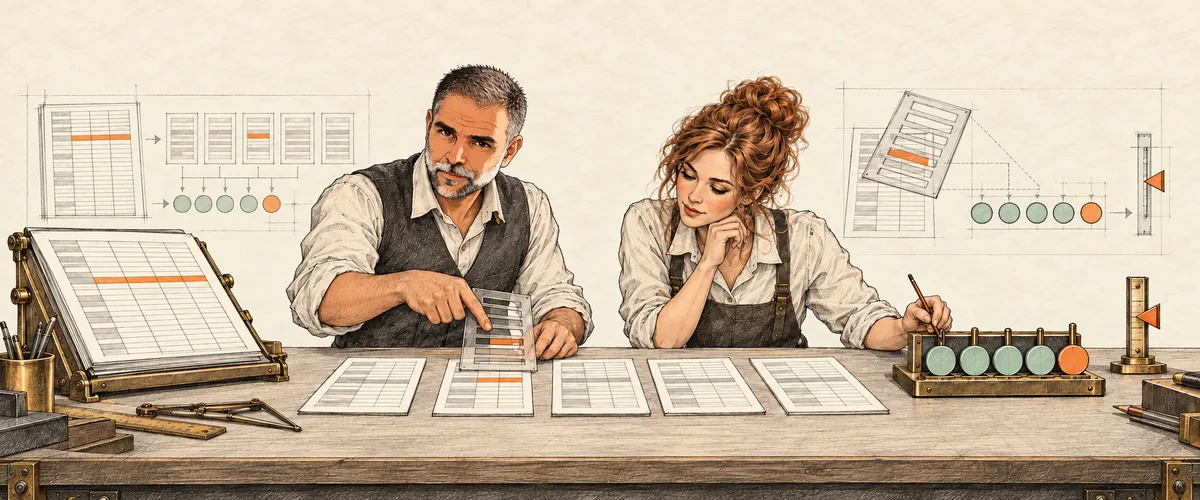
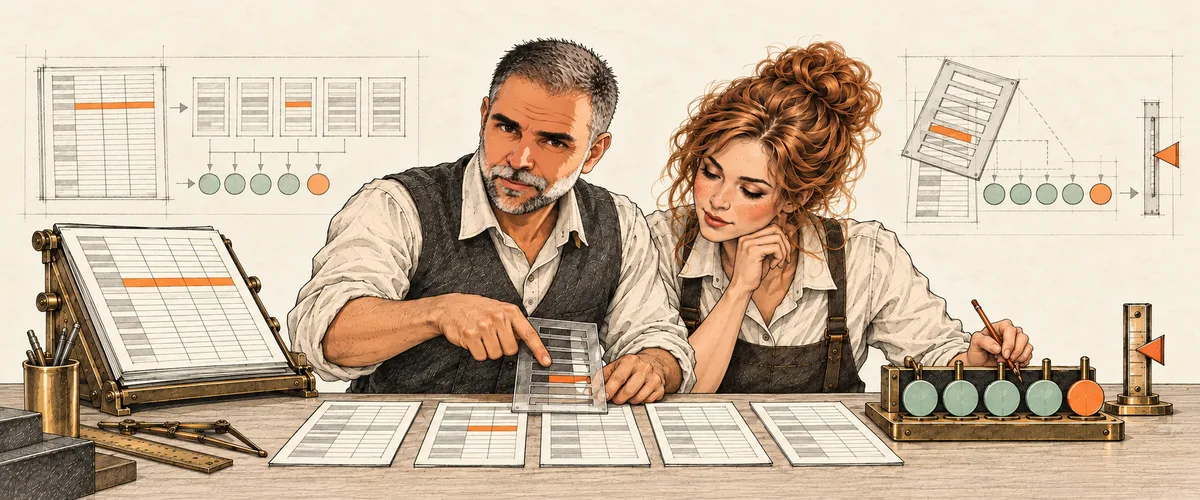
Bring three article card compositions closer to their subjects

diff --git a/src/assets/heroes/controlled-workflows-card.prompt.md b/src/assets/heroes/controlled-workflows-card.prompt.md
@@ -1,28 +1,63 @@
-# controlled-workflows: article card
+# Skills versus Controlled Workflows: closer card companion
 
-Source hero: `controlled-workflows.webp`, 2172 x 724.
-Article: `skills-versus-controlled-workflows`.
-Method: built-in image generation, outpainting; 2026-10-06.
-The approved source hero remains unchanged.
+Generated with the built-in image tool on 2026-10-14. The owner requested closer cards for these three articles, using the approved Breadcrumbs card as the composition example. Source hero: `controlled-workflows.webp`, 2172 × 724; preserved unchanged.
 
-## Complete brief
+Recomposition reason: The people and connected graph were spread across the panoramic scene. The new grouping brings the same cast and graph closer in the same workshop; the existing characters are preserved.
+
+## Inputs
+
+1. `src/assets/heroes/controlled-workflows.webp`: edit target.
+2. `src/assets/heroes/pipeline-breadcrumbs-v3-crop-card.webp`: close-composition reference only.
+
+The source hero supplies the cast, situation and palette. The controlled-workflows scene retains its existing man and woman under the owner's identity-preservation instruction.
+
+## Complete initial brief
 
 ```text
-Use case: compositing / vertical outpainting.
-Input image 1 is the EDIT TARGET, the existing "Skills versus Controlled Workflows" hero. Original dimensions 2172 x 724, exact 3:1.
-Produce one faithfully extended landscape image at 12:5 (2.4:1), intended exact export 1200 x 500 pixels. Generate at sufficient resolution for export.
-
-Extend ONLY above and below. At final 1200 x 500 scale, original full-width 1200 x 400 scene occupies y=50 through y=450. Fill the equivalent of 50 new pixels above and 50 below, while preserving the entire original central strip as closely as possible. Do not add any canvas at left or right. Do not zoom out, shrink subjects, crop sides, bring people closer together or redesign the arrangement.
-
-Preserve the woman on the left and the man on the right: identical face identity, hair, clothes, apron, pose, hands, horizontal placement and size relative to frame width. Keep the entire floating directed graph, all colored square metal nodes and their inset symbols, the exact branching and rejoining pipes, arrowheads, relationships and spacing. Preserve all loose blocks, pipes and tools on the workbench. Preserve the windows at both sides and the original surrounding workshop details. Maintain every important object.
-
-In the new top strip, naturally continue the warm ivory workshop wall and upper portions of side windows and existing architecture. In the new bottom strip, naturally extend the front edge of the wooden workbench below the existing tabletop. Match the original fine technical editorial pen-and-ink, delicate cross-hatching, warm textured paper, subdued blue and ochre hardware, lighting and perspective. Avoid new focal objects or new graph components. No text, lettering, logos, watermark, decorative border or blank padding bars.
-
-The finished scene will be shown only 366 pixels wide by 153 pixels high in a website card. Preserve the existing subject scale at that width; the purpose is to fill the previously unused vertical canvas, with no horizontal reframing. This is an outpainting edit, not a newly composed illustration.
+Use case: compositing. Asset: companion article listing card for "Skills versus Controlled Workflows".
+Image 1 is the edit target, the approved 2172 x 724 controlled-workflows hero. Image 2 is the Breadcrumbs card as a close-composition reference ONLY. Never import its woman, robot, machines or city scene; preserve Image 1's original two people and setting.
+Recompose Image 1 for exact 12:5 (2.4:1) landscape, generate around 1944 x 810 or larger, final export 1200 x 500. Bring the ORIGINAL brunette woman on the left and ORIGINAL curly dark-haired bearded man on the right into a closer waist-up working group. These are the existing characters, not replacements: preserve their recognizable identities, cream shirts, charcoal work aprons, concentration, relative physical scale, both complete heads/hair and all working hands. Keep each hair silhouette at least 5% canvas height from the top, and leave side breathing space. Faces and hand interactions need to read at 366 x 153 pixels.
+Retain the same workshop with arched windows, pale plaster, hanging shop lamps and the wooden workbench. Keep the same connected branching-and-rejoining graph of small metal blocks and curved pipes that they are constructing together. Bring its main functional group between and below their faces, at chest/tabletop level, instead of stretching across the whole panorama. Preserve an input block at left, THREE initial branches joining in a central block, TWO following branches rejoining by the man, and an output block at right. Keep teal and copper pipes, brass fittings, direction arrows and the existing simple inset circle/triangle/diamond symbols. The woman adjusts the triangular teal node; the man connects the right-hand diamond/rejoining node. Compress the arrangement to make people and connections recognizable together without covering faces or sacrificing the graph's meaning.
+Reduce wide empty wall and peripheral tabletop clutter. Retain a few loose blocks, connectors, tools and paper rolls as the same surrounding props. The card should feel like a closer view of the SAME situation, not a newly invented portrait scene. No extra people and no removed person.
+Appearance: same detailed vintage technical editorial pen-and-ink and fine crosshatching, gently luminous warm ivory, natural skin and dark brunette hair, controlled richer teal and copper/brass accents. Moderate saturation without dull grey wash, harsh exposure, neon colours or losing ink details. Match the original hero's palette family; do not turn the brunette woman into a redhead or change the man's identity.
+No words, lettering, digits, new labels, logos, watermark, frame, padding bands, collage, clipped hair/hands or merged bodies. All defining people and activity fit comfortably inside the 12:5 card.
 ```
 
-## Export
+First generated original: `C:\Users\shivk\.codex\generated_images\01a13765-6970-7d13-a81d-30df9d08bb0d\exec-92349493-52fb-4d38-b1e9-6b7241b0f8f1.png`.
 
-Original: `C:/Users/shivk/.codex/generated_images/01a112b8-3f2f-7f22-a1a3-e3f40cc014ab/exec-70c62626-d37f-409e-9956-d2bda926146a.png`.
-Native dimensions: 1942 x 809.
-Export: 1200 x 500 WebP, quality 82, without upscaling.
+## Framing refinement
+
+```text
+Make ONLY a small framing refinement to this newly composed Skills versus Controlled Workflows card. Keep exactly the same brunette woman and curly dark-haired bearded man, their faces, expressions, poses, cream shirts, charcoal aprons, all working hands, connected branching/rejoining blocks, pipe routes and symbols, colours, materials, surrounding workshop windows, lamps and workbench.
+Keep the same 12:5 landscape canvas at high resolution about 1944 x 810. Pull the entire composition back only about 6 percent to leave a natural 4 percent canvas-height margin above BOTH complete hair silhouettes and modest breathing room at the sides. Keep the close readable faces, the full graph and shared activity prominent; do not return to the old distant panorama. Continue the same environment naturally at the edges, with no padding bands. Do not remove or invent people, change identities, change the graph, move individual subjects relative to each other, add lettering or change brightness/saturation.
+```
+
+## Thumbnail composition correction
+
+The initial candidate still left the people too small in the actual desktop grid. The tighter grouping below preserves the same cast, workshop and branching workflow while reducing peripheral space.
+
+```text
+Use case: compositing. Make the Skills versus Controlled Workflows card MUCH CLOSER, because Image 1 is still too wide at a 366 x 153 thumbnail. Image 1 is the current candidate to edit. Image 2 is the original hero for identity, graph meaning and workshop context only.
+Retain exactly the same brunette woman and dark-haired bearded man, identities, faces, clothing and concentrated shared assembly activity. Make them a close upper-torso/waist-up pair filling most of the frame: each COMPLETE head and hair should be about 35 to 40 percent of the canvas HEIGHT, with a natural 4 percent margin above the hair. Keep all working hands and the held triangle and diamond blocks. Bring the pair together; large recognizable people and their working hands are the focal point.
+Compress the SAME three-branch then two-branch connected metal-block workflow into a smaller coherent group running BETWEEN and BELOW their faces, at their hands and the upper workbench. Preserve the input, output, teal/copper/brass materials, simple inset symbols, arrows, branching and rejoining meaning, and their hands operating the same nodes. Existing blocks and connections can be rearranged in perspective to fit the close composition. Keep every defining node; don't spread the apparatus across the full original room. Do not lay pipes across faces.
+Keep the SAME workshop, with recognizable partial arched windows at the side edges, warm pale plaster/drafting lines, shop lamps and a small section of the wooden workbench with a few matching tools and spare blocks. The whole windows and the long tabletop do not need to remain in frame. Remove excess empty wall, large peripheral space and redundant clutter before sacrificing people. This is like a closer camera view of that same situation, not a new setting.
+Exact 12:5 (2.4:1) landscape, generate about 1944 x 810. Preserve complete heads, both people, natural complete hands and modest breathing margins. Same detailed vintage technical pen-and-ink, delicate crosshatching, natural brunette hair and skin, warm moderate teal/copper colour and gentle brightness. No redhead substitution, extra or missing people, invented robot, lettering, logos, border or blank padding bands.
+```
+
+Intermediate tighter original: `C:\Users\shivk\.codex\generated_images\01a13765-6970-7d13-a81d-30df9d08bb0d\exec-c1081503-2101-4fb8-9c02-943f89eb177d.png`.
+
+## Final edge framing
+
+```text
+Framing correction ONLY. Keep this newly tightened Skills versus Controlled Workflows composition, exact same woman and man, their LARGE faces, identities, expressions, cream shirts, dark aprons, working hands, connected graph, pipes, symbols, workbench props, workshop setting, colour, lighting and detailed ink style.
+The woman's hair currently touches the top boundary. Pull the ENTIRE composition back uniformly only FIVE percent, keeping it centered on the same exact 12:5 canvas, high resolution around 1944 x 810. Fill the new edges with the same natural workshop environment. BOTH COMPLETE hair silhouettes must have a clear natural margin of at least 3 percent canvas height above them. Keep all hands and the lower connected silver branch block safely within frame too.
+Do not move individuals separately or rearrange the graph. Do not reduce the people back to distant figures: preserve this latest close view. Do not add new people, props, lettering, borders or padding bands. This is the SAME tight grouping with a small amount of edge breathing room, nothing else.
+```
+
+Selected original: `C:\Users\shivk\.codex\generated_images\01a13765-6970-7d13-a81d-30df9d08bb0d\exec-f4f5a824-aead-4fa8-819e-487033fab302.png`.
+
+## Export and inspection
+
+Measured selected original: 1942 × 809. Export: 1200 × 500 WebP, quality 82, through `node tools/prepare-image.mjs <original> controlled-workflows-card --role card`. Downsampled without upscaling or stretching; the native aspect ratio differs by less than 0.03%, so export removes only negligible edge rounding.
+
+Both original people, complete hair silhouettes, working hands, defining props and the same situation are retained. Colour is warm with moderate saturation and gentle brightness. Actual desktop and phone grid inspection is recorded in the publication receipt. Article heroes, body, metadata, dates and listing order are unchanged.

diff --git a/src/assets/heroes/verified-not-trusted-expense-analysis-part-three-card.prompt.md b/src/assets/heroes/verified-not-trusted-expense-analysis-part-three-card.prompt.md
@@ -1,28 +1,41 @@
-# verified-not-trusted-expense-analysis-part-three: card companion
+# Verified, Not Trusted: Expense Analysis, Part Three: closer card companion
 
-Faithful outpainting of the approved Part Three hero, generated on 2026-10-10 with
-the built-in image tool through `tools/codex-desktop.sh exec`. The hero's original
-2171 x 724 PNG was the edit target. First generation selected.
+Generated with the built-in image tool on 2026-10-14. The owner requested closer cards for these three articles, using the approved Breadcrumbs card as the composition example. Source hero: `verified-not-trusted-expense-analysis-part-three.webp`, 1600 × 534; preserved unchanged.
 
-Original: `C:/Users/shivk/.codex/generated_images/01a128bf-3e34-7f50-aa88-7a717ddd311f/exec-cc7d6b49-2335-404f-af0b-7a5d0a4ca1fe.png`
-Saved review copy: `D:/Source/Workspaces/matlus-expense-part-three-2026-10-10/card-part-three-v1.png`
+Recomposition reason: The distant outpainted composition left the two people small at card size. A closer view retains both people, the five-run array and inspection.
 
-Native output: 1942 x 809. Export: **1200 x 500**, exact **12:5 (2.4:1)**, with
-`node tools/prepare-image.mjs <original> verified-not-trusted-expense-analysis-part-three-card --role card`,
-WebP quality 82. No upscaling. The scene, both people, the five chambers, the
-flagged slip and the tally column are preserved; only ivory paper above and the
-workbench below were extended. The hero remains unchanged.
+## Inputs
 
-## Complete prompt
+1. `src/assets/heroes/verified-not-trusted-expense-analysis-part-three.webp`: edit target.
+2. `docs/style-references/shiv-kumar-portrait.webp`: likeness only.
+3. `src/assets/heroes/pipeline-breadcrumbs-v3-crop-card.webp`: close-composition reference only.
+
+The source hero supplies the cast, situation and palette. The controlled-workflows scene retains its existing man and woman under the owner's identity-preservation instruction.
+
+## Complete initial brief
 
 ```text
-Use your built-in image generation tool to EDIT the attached image. Do not write code, do not edit any files, and do not describe the image in text instead of generating it. When the image is generated, reply with the absolute path of the saved PNG file.
-
-Use case: faithful outpainting, companion website article-card illustration.
-Edit target: the attached approved article hero, a 2171 x 724 pixel PNG (approximately 3:1).
-Article: "Verified, Not Trusted: Expense Analysis, Part Three". The important relationship: one prompt is run five times in five identical, isolated glass test chambers; four result slips match and the third chamber's slip has a missing row marked with a small orange flag; Shiv Kumar (right) checks that odd slip with a brass loupe beside a tally column holding four brass tokens and one empty slot; the auburn-haired engineer (left) loads identical sheets into the shared feeder.
-Canvas: exact 12:5 (2.4:1) landscape; final export 1200 x 500 pixels. Generate at least this resolution, ideally 1944 x 810, for downsampling.
-Geometry: preserve the complete original as a centered 1200 x 400 region at export scale (the full width of the canvas). Extend only the TOP and BOTTOM, approximately 50 pixels each at export scale (about one tenth of the canvas height each). Keep the original scene's positions, subject sizes, faces, poses, working hands, objects and important relationships exactly. Continue only the environment at the new edges: above, more of the plain warm ivory paper background with faint pencil construction marks and room above the woman's hair; below, the continuation of the wooden workbench front and its shadow. Match the perspective, textures, linework and existing palette. Keep sparse backgrounds sparse and extend edge-crossing forms naturally.
-Avoid: cropping, stretching, zooming out within the retained region, rearranging subjects, simplifying the central scene, invented people, new focal objects, new labels, lettering, numbers, logos, watermarks, decorative borders or padding bands.
-The card must remain readable at about 366 x 153 pixels, and at 320 pixels wide.
+Use case: compositing. Asset: companion website article listing card for "Verified, Not Trusted: Expense Analysis, Part Three".
+Image 1 is the EDIT TARGET: the approved 1600 x 534 Part Three hero. Image 2 is Shiv Kumar's face reference ONLY. Image 3 is the Breadcrumbs card as a composition reference ONLY: a closer readable view of the same situation, never copy its woman, robot, machines or workshop into this scene.
+Recompose Image 1 for an exact 12:5 (2.4:1) landscape card; generate approximately 1944 x 810 or larger, for final downsample to 1200 x 500. Do not simply pad or resize the panoramic scene. Bring BOTH original people into a close waist-up working group: the copper/auburn-haired woman on the left loading identical ledger sheets, and Shiv on the right inspecting a flagged result slip with his brass loupe. Preserve their recognizable identities, clothing, intent, expressions, complete heads/hair and all working hands, with comfortable margins. Their faces must be substantially larger than in the original panoramic card and readable at 366 x 153 pixels.
+Preserve the original situation: warm ivory technical-ink workshop/drafting backdrop and workbench, shared sheet feeder, FIVE individual glass/brass test chambers connected to it, and their result slips. Compress the five chambers into a compact low array between and below the people's faces; keep five clearly separate chambers, four ordinary matching slips and ONE odd slip with a small orange flag. Retain the slim five-position tally with four brass tokens and one empty slot as a compact secondary prop. Keep the inspection meaningful: Shiv examines the odd result, the woman supplies the common input. Reduce empty sky/paper and peripheral tabletop clutter, rather than removing people or defining props. No pipes crossing faces, no cropped hands, no extra chambers or extra people.
+Appearance: same intricate vintage technical editorial pen-and-ink, fine crosshatching, natural skin, cream shirts, charcoal aprons/waistcoat, warm brass, rich but moderate copper hair and orange accents. Gentle warm brightness, slightly clearer colour than a dull sepia wash, without harsh exposure, neon saturation or losing ink detail. Preserve the hero's colour family.
+No words, digits, labels, lettering, logos, watermark, frame, padding bands or collage. Keep all meaningful activity comfortably inside the 12:5 frame. The result is a closer view of the SAME people doing the SAME work, with the scene's five-run comparison preserved.
 ```
+
+First generated original: `C:\Users\shivk\.codex\generated_images\01a13765-6970-7d13-a81d-30df9d08bb0d\exec-004c18d0-d35a-4c31-8af1-1d3c9d70c3cc.png`.
+
+## Framing refinement
+
+```text
+Make a targeted framing and backdrop correction to Image 1, the newly composed Part Three card. Keep the exact close working group, two identities, face expressions, clothing, poses, full hands, five distinct glass chambers, shared feeder, result slips with the third flagged odd slip, and five-slot tally with four tokens and one empty slot. Keep the same 12:5 landscape canvas and high resolution approximately 1944 x 810. Pull the foreground composition back only about 7 percent to give BOTH complete hair silhouettes a clear natural margin of at least 4 percent canvas height above them. Maintain the much larger readable faces; do not return to the distant panorama. Continue the workbench naturally at the edges, with every output slip and hand safely within frame.
+Image 2 is the approved original hero for the backdrop only. Restore its quiet warm ivory paper and subtle technical drafting diagrams in the background: remove the newly invented greenery, hanging lamp and decorative armillary clock, retaining all existing foreground props. Do not invent a different room. Keep the warmer copper hair and brass, natural skin and fine dark ink; gentle brightness without clipping or neon. No other changes, no words or labels, no border or padding bands.
+```
+
+Selected original: `C:\Users\shivk\.codex\generated_images\01a13765-6970-7d13-a81d-30df9d08bb0d\exec-af4555e3-a148-4ff8-ae20-28b8f56e7f0b.png`.
+
+## Export and inspection
+
+Measured selected original: 1942 × 809. Export: 1200 × 500 WebP, quality 82, through `node tools/prepare-image.mjs <original> verified-not-trusted-expense-analysis-part-three-card --role card`. Downsampled without upscaling or stretching; the native aspect ratio differs by less than 0.03%, so export removes only negligible edge rounding.
+
+Both original people, complete hair silhouettes, working hands, defining props and the same situation are retained. Colour is warm with moderate saturation and gentle brightness. Actual desktop and phone grid inspection is recorded in the publication receipt. Article heroes, body, metadata, dates and listing order are unchanged.

diff --git a/src/assets/heroes/verified-not-trusted-expense-analysis-part-four-card.prompt.md b/src/assets/heroes/verified-not-trusted-expense-analysis-part-four-card.prompt.md
@@ -1,11 +1,41 @@
-# Part Four: card derivative
+# Verified, Not Trusted: Expense Analysis, Part Four: closer card companion
 
-Generated 2026-10-12 with the built-in image tool. Native: 1942 x 809. Export: 1200 x 500, WebP quality 82, downscaled without upscaling. Original: `C:/Users/shivk/.codex/generated_images/01a130f1-22f2-74b3-95bd-e67c602111af/exec-39240db0-0e63-438d-a224-0d2cca320e8a.png`.
+Generated with the built-in image tool on 2026-10-14. The owner requested closer cards for these three articles, using the approved Breadcrumbs card as the composition example. Source hero: `verified-not-trusted-expense-analysis-part-four.webp`, 1600 × 534; preserved unchanged.
 
-Edit target: settled `verified-not-trusted-expense-analysis-part-four.webp`, 1600 x 534. Faithful top-and-bottom outpainting, preserving the whole scene.
+Recomposition reason: A closer comparison-desk composition keeps both people, their working hands, the master ledger, five slips, stencil and tally readable.
 
-## Complete generation brief
+## Inputs
+
+1. `src/assets/heroes/verified-not-trusted-expense-analysis-part-four.webp`: edit target.
+2. `docs/style-references/shiv-kumar-portrait.webp`: likeness only.
+3. `src/assets/heroes/pipeline-breadcrumbs-v3-crop-card.webp`: close-composition reference only.
+
+The source hero supplies the cast, situation and palette. The controlled-workflows scene retains its existing man and woman under the owner's identity-preservation instruction.
+
+## Complete initial brief
 
 ```text
-Use case: faithful outpainting. Edit target supplied: settled website hero 1600x534. Companion for 'Verified, Not Trusted: Expense Analysis, Part Four'. Exact 12:5 landscape ratio, generate at least 1200x500 ideally 1920x800. Preserve COMPLETE original centered as a 1200x400.5 scene at final export scale, adding approximately 49.75 pixels above and below at 1200x500 scale. Extend ONLY top and bottom environment, warm ivory paper above and drafting table below, matching vintage fine ink linework, brass/charcoal/mint/orange palette and perspective. Preserve Shiv and woman engineer's identities, complete heads, facial expressions, poses, hands, master ledger, five result slips, comparison stencil and five-position tally rack (four mint tokens one orange), threshold pointer, ALL original scene relationships and subject sizes. Do not crop, stretch, rearrange, zoom, add subjects or add focal objects. Keep original retained region undisturbed. No new text, words, letters, digits, labels, logos, watermarks, frames, padding bands. Must read as full continuous scene at 366x153 and 320px wide.
+Use case: compositing. Asset: companion article card for "Verified, Not Trusted: Expense Analysis, Part Four".
+Image 1 is the edit target, approved 1600 x 534 Part Four hero. Image 2 is Shiv Kumar's likeness reference ONLY. Image 3 is the Breadcrumbs card as a composition reference ONLY; do not transplant its woman, robot, blue machines, plants, lamps or city backdrop.
+Recompose the edit target as a closer waist-up group for exact 12:5 (2.4:1) landscape, approximately 1944 x 810 pixels or larger, final export 1200 x 500. BOTH original people must stay: Shiv on the left pointing at the small comparison stencil with an orange discrepant row, and the auburn/copper-haired woman on the right checking the papers and keeping the tally. Preserve identities, expressions, cream shirts, charcoal waistcoat/apron and the shared evidence-checking activity. Their faces should be much larger than in the panorama and readable at 366 x 153. Keep complete hair silhouettes at least 5% of the canvas height BELOW the top edge and comfortably away from side edges; retain all working hands and the stencil.
+Bring the two people and the key props closer within the SAME warm ivory drafting-room/workbench situation. Retain the tilted master ledger at left as a smaller foreground prop, FIVE result slips across the lower workbench, the comparison stencil between their hands, and the compact five-position tally rack with FOUR mint tokens and ONE orange token by the woman's working hand. Keep the small threshold pointer as a secondary cue. Quiet drafting-line comparison diagrams can remain in the original ivory backdrop; no new room or invented background objects. Reduce empty tabletop and unused paper around the original scene. Reposition these existing objects only as needed for the closer frame, keeping their meaning and counts. People and inspection are focal, all important objects fit within the frame.
+Style: same intricate vintage technical editorial ink, fine pen lines and crosshatching, warm ivory, natural skin, brass, rich copper hair, muted mint and controlled orange. Warm moderate saturation, gentle brightness with all paper/skin highlight details, not a dull grey wash and not harsh or neon. Match the approved hero's material and colour family.
+No words, letters, digits, new labels, logos, watermarks, borders, padding bars, collage, extra people, missing hands, cropped hair, merged bodies or changed activity. This should read as a closer view of the very same situation, with both people preserved.
 ```
+
+First generated original: `C:\Users\shivk\.codex\generated_images\01a13765-6970-7d13-a81d-30df9d08bb0d\exec-d3e17379-d12c-45bd-9a77-f04c01c6e185.png`.
+
+## Framing refinement
+
+```text
+Targeted framing correction ONLY to the attached newly composed Part Four article card. Keep the exact same two people, identities, face expressions, poses, clothing, natural hands, master ledger, comparison stencil, FIVE result slips, mint/orange five-token rack, threshold pointer and quiet ivory drafting backdrop. Keep the current colour, warmth, lighting, rich copper hair, natural skin, materials and intricate ink style unchanged.
+Keep exact 12:5 (2.4:1) landscape, high resolution around 1944 x 810. Pull the entire close composition back only about 7 percent, enough to give BOTH complete hair silhouettes clear natural background above them of at least 4 percent of canvas height, and enough left breathing room for the whole tilted ledger frame. Preserve large readable faces and hands. Continue the same warm ivory background and wood at the edges; no border, bands or new focal objects. Do not zoom back out to the old panorama, move individual people relative to one another, remove props, change counts or add people. No lettering or logos.
+```
+
+Selected original: `C:\Users\shivk\.codex\generated_images\01a13765-6970-7d13-a81d-30df9d08bb0d\exec-0636625e-5a3a-427a-8593-1c7fdc6ea097.png`.
+
+## Export and inspection
+
+Measured selected original: 1942 × 809. Export: 1200 × 500 WebP, quality 82, through `node tools/prepare-image.mjs <original> verified-not-trusted-expense-analysis-part-four-card --role card`. Downsampled without upscaling or stretching; the native aspect ratio differs by less than 0.03%, so export removes only negligible edge rounding.
+
+Both original people, complete hair silhouettes, working hands, defining props and the same situation are retained. Colour is warm with moderate saturation and gentle brightness. Actual desktop and phone grid inspection is recorded in the publication receipt. Article heroes, body, metadata, dates and listing order are unchanged.

diff --git a/docs/handoff.md b/docs/handoff.md
@@ -1,5 +1,28 @@
 # Handoff
 
+## Three closer listing cards, October 14, 2026
+
+Shiv selected Expense Analysis Parts Three and Four and Skills versus Controlled
+Workflows for closer card compositions using the approved Breadcrumbs pair as
+the example. The three companions now bring the same two people and their work
+forward while retaining the defining props and recognizable setting. Original
+article heroes, all article text and metadata, dates and homepage ordering remain
+unchanged.
+
+Part Three keeps five chambers, the flagged odd result and the tally. Part Four
+keeps the comparison desk, master ledger, five slips, stencil and mint/orange
+tally. Skills retains its original brunette woman and dark-haired man, workshop
+and connected workflow; the identity-preservation request takes precedence over
+substituting a different likeness. Warm colour remains moderate and brightness
+gentle. Framing refinements restore complete hair silhouettes and breathing room;
+Part Three also restores its quiet original drafting backdrop. The actual desktop
+grid prompted a tighter Skills composition before its final framing refinement.
+
+The built-in image tool produced 1942 × 809 originals. Each selected companion
+exports at 1200 × 500 WebP, quality 82, without upscaling or stretching. Complete
+initial briefs, references, refinements and export records accompany the assets.
+The publication receipt records desktop/phone inspection and deployment checks.
+
 ## Homepage series grouping, October 13, 2026
 
 Shiv requested uninterrupted homepage blocks for Expense Analysis and Programming
